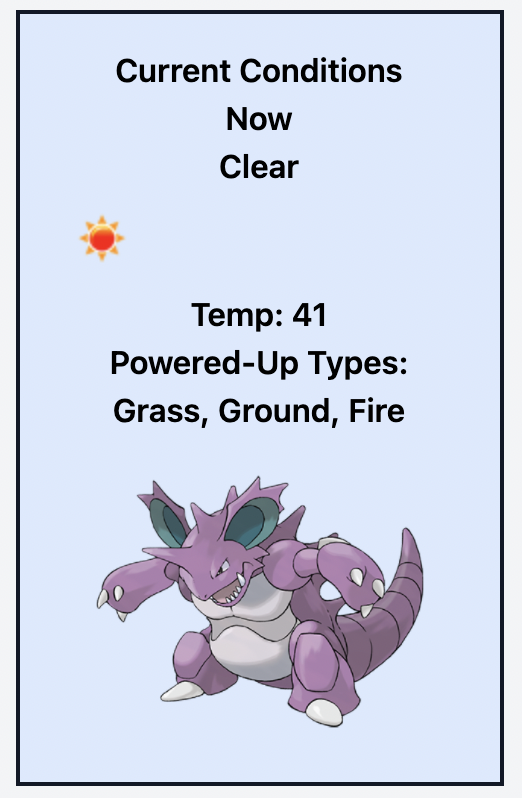
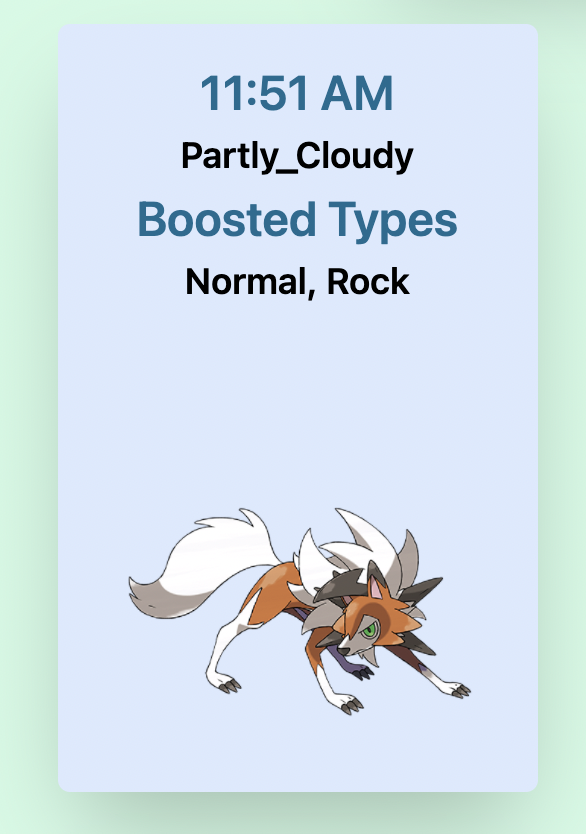
further styled cards. updated readme screenshots

diff --git a/pokemon.js b/pokemon.js
@@ -75,7 +75,7 @@ const pokemonSprites = async (backgroundPokemon) => {
             let response = await fetch(pokeImageUrl);
             if (response.ok) {
                 pokeImageApiJson = await response.json();
-                if (pokeImageApiJson.sprites.other.dream_world.front_default) {
+                if (pokeImageApiJson.sprites.other["official-artwork"].front_default) {
                     pokemonImages.push(pokeImageApiJson.sprites.other["official-artwork"].front_default)
                 } else {
                     pokemonImages.push(pokeImageApiJson.sprites.front_default)
@@ -86,12 +86,12 @@ const pokemonSprites = async (backgroundPokemon) => {
     }
     
     //sets the background pokemon image for each hour
-    mainCardsDiv.setAttribute('style', `background-image: url(${pokemonImages[0]}); background-repeat: no-repeat; background-size: 35%; background-position: bottom`);
+    mainCardsDiv.setAttribute('style', `background-image: url(${pokemonImages[0]}); background-repeat: no-repeat; background-size: 45%; background-position: bottom`);
     for (i = 1; i < backgroundPokemon.length - 1; i++) {
         hourCardBackground = document.getElementById(`hour${i}`);
         hourCardBackground.setAttribute('style', `background-image: url(${pokemonImages[i]}); background-repeat: no-repeat; background-size: 75%; background-position: bottom;`)
     }
-    dayCardsDiv.setAttribute('style', `background-image: url(${pokemonImages[8]}); background-repeat: no-repeat; background-size: 35%; background-position: bottom`)
+    //dayCardsDiv.setAttribute('style', `background-image: url(${pokemonImages[8]}); background-repeat: no-repeat; background-size: 35%; background-position: bottom`)
     return pokemonImages
 }
 
@@ -141,12 +141,8 @@ const getDataAndRender = function () {
             elementTypes = "";
     
             //translates openweather weather conditions into the 7 weather types used by pokemon go
-            for (i = 0; i < 24; i++) {
-                
-                if (i > 7 && i < 23) {
-                    continue;
-                }
-                
+            for (i = 0; i < 8; i++) {
+                                
                 let weatherId = pokeWeather.hourly[i].weather[0].id;
                 let main = pokeWeather.hourly[i].weather[0].main
                 
@@ -216,7 +212,7 @@ function displayMainCard(condition, typesOb){
     conditionsEL.textContent = condition[0].split('_').join(' ');
     theTypesEl.textContent = typesOb[0].join(", ");
 
-    mainCardsDiv.setAttribute('class', 'container ring-2 bg-blue-100 ring-gray-900  h-96 max-w-xl p-4 my-4 mx-auto text-center shadow-xl font-semibold')
+    mainCardsDiv.setAttribute('class', 'container bg-blue-100 shadow-2xl rounded-md h-96 max-w-xl p-4 my-4 mx-auto text-center shadow-xl font-semibold')
     mainCardsDiv.append(dateEl, conditionsEL, poweredTypes, theTypesEl);
 
 
@@ -295,7 +291,7 @@ function displayHourCard(condition, boss) {
         conditionsEL.textContent = condition[i]//poki.hourly[i].weather[0].main;
         theTypesEl.textContent = boss[i].join(", ");
 
-        hourCard.setAttribute('class', 'container bg-blue-100 ring-2 ring-gray-900 h-96 w-60 text-center p-4 my-4 mx-2 font-semibold justify-center inline-block')
+        hourCard.setAttribute('class', 'container bg-blue-100 shadow-2xl rounded-md h-96 w-60 text-center p-4 my-4 mx-2 font-semibold justify-center inline-block')
 
           hourCard.append(timeSlotEl,conditionsEL, poweredTypes, theTypesEl);
    

diff --git a/index.html b/index.html
@@ -38,7 +38,7 @@
                 <!-- Displays the search bar and some applicable cities -->
 
             <form id="searchBarID" class='flex justify-center'>
-                <input type="text" id="searchInput" placeholder="Search for a city..." name="search" class="ring-2 ring-gray-900 w-60 focus:ring-blue-400 focus:ring-3">
+                <input type="text" id="searchInput" placeholder="Search for a city..." name="search" class="ring-2 ring-gray-900 w-60 focus:ring-blue-400 focus:ring-3 text-center">
                 <button type="submit" id="searchSubmitButton"> <i class="fas fa-search-location hover:text-gray-400"></i> </button>
             </form>             
                 
